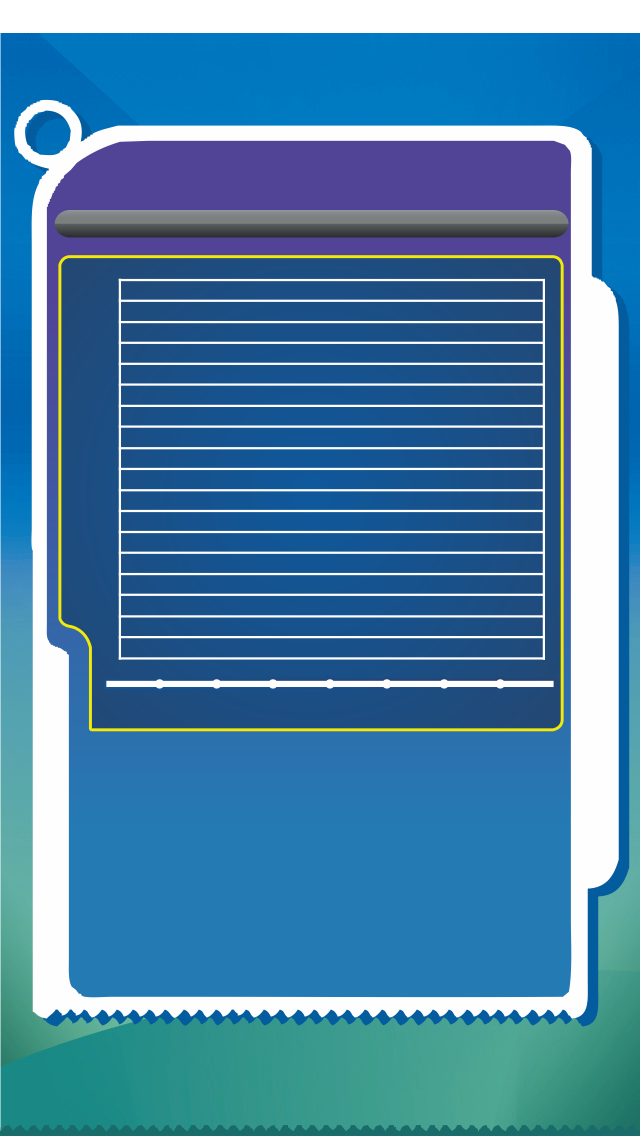
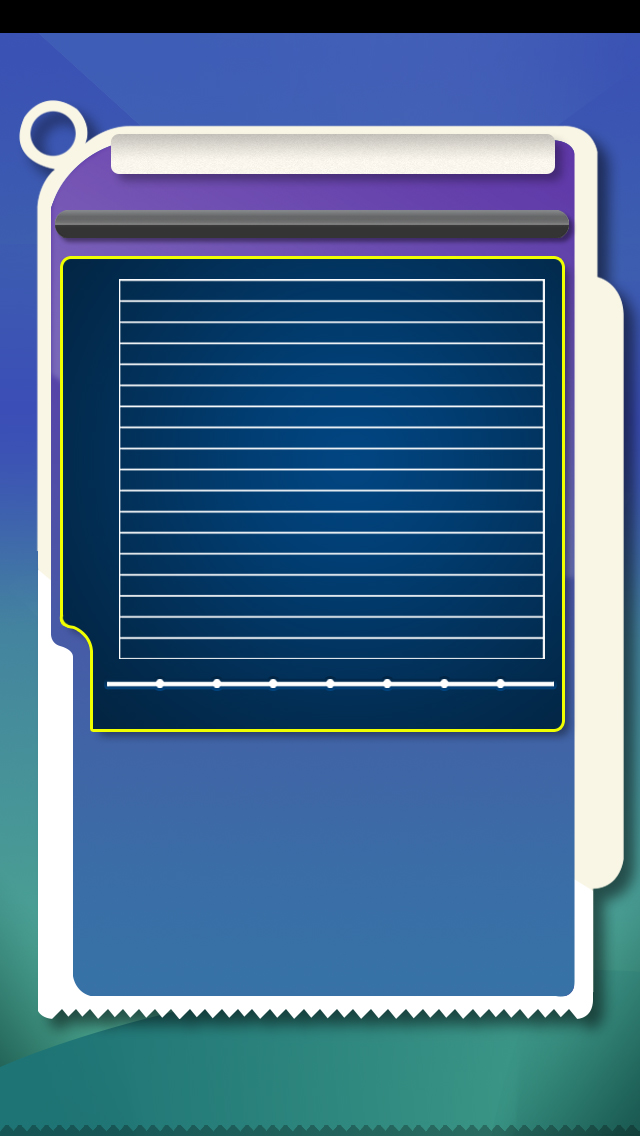
pedo background

diff --git a/Pedometer/ProjectPrivate/UI/PEDBarchartViewController.m b/Pedometer/ProjectPrivate/UI/PEDBarchartViewController.m
@@ -41,6 +41,30 @@
             }
         }
         if(barIdArray != nil && barIdArray.count > 0){
+            NSMutableArray *imageArray = [[NSMutableArray alloc]init];
+            int barWidth = 244;
+            int startX = 36;
+            int imgTotalWidth = 0;
+            for (int i=0; i<barIdArray.count; i++) {
+                UIImage *image = [PEDPedometerDataHelper getBarRemarkImageWithStatisticsType:[barIdArray objectAtIndex:i]];
+                [imageArray addObject:image];
+                imgTotalWidth += image.size.width;
+            }
+            for (int i=0; i<barIdArray.count; i++) {
+                UIImage *image = [imageArray objectAtIndex:i];
+                UIImageView *barColorView = [[UIImageView alloc] initWithImage:image];
+                barColorView.frame = CGRectMake(startX, 106, image.size.width, image.size.height);
+                if(barIdArray.count > 1)
+                {
+                    startX += image.size.width + (barWidth - imgTotalWidth) / (barIdArray.count - 1);
+                }
+
+                [tempControlPool addObject:barColorView];
+                //                [tempControlPool addObject:barRemarkLable];
+                [self.view addSubview:barColorView];
+                //                [self.view addSubview:barRemarkLable];
+            }
+            /*
             for (int i=0; i<barIdArray.count; i++) {
                 UIImageView *barColorView = [[UIImageView alloc]initWithFrame:CGRectMake(46 + i * 100, 62, 30, 5)];
                 //barColorView.backgroundColor = [PEDPedometerDataHelper getColorWithStatisticsType:[barIdArray objectAtIndex:i]];
@@ -57,6 +81,7 @@
                 [self.view addSubview:barColorView];
                 [self.view addSubview:barRemarkLable];
             }
+             */
         }
     }
     @catch (NSException *exception) {
@@ -170,8 +195,8 @@
 - (void)viewDidLoad
 {
     [super viewDidLoad];
-    [self initMonthSelectorWithX:56.f Height:66.f];
-    barIdArray = [[NSMutableArray alloc] initWithObjects:[PEDPedometerDataHelper integerToString:STATISTICS_DISTANCE], [PEDPedometerDataHelper integerToString:STATISTICS_AVG_SPEED],[PEDPedometerDataHelper integerToString:STATISTICS_AVG_PACE], nil];
+    [self initMonthSelectorWithX:56.f Height:66.f isForPedo:YES];
+    barIdArray = [[NSMutableArray alloc] initWithObjects:[PEDPedometerDataHelper integerToString:STATISTICS_STEP], [PEDPedometerDataHelper integerToString:STATISTICS_CALORIES],[PEDPedometerDataHelper integerToString:STATISTICS_DISTANCE], nil];
     [self initBarRemark];
     [self initData];
 	// Do any additional setup after loading the view, typically from a nib.
@@ -202,17 +227,20 @@
             BOOL isChange = NO;
             if([barIdArray containsObject:statisticsTypeStr]){
                 [barIdArray removeObject:statisticsTypeStr];
-                [btn setBackgroundImage:nil forState:UIControlStateNormal];
-                [btn setTitleColor:[UIColor whiteColor] forState:UIControlStateNormal];
+                [btn setBackgroundImage:[PEDPedometerDataHelper getBtnBGImageWithStatisticsType:statisticsTypeStr withStatus:false] forState:UIControlStateNormal];
+                //                [btn setTitleColor:[PEDPedometerDataHelper getColorWithStatisticsType: statisticsTypeStr] forState:UIControlStateNormal];
+                //                [btn setBackgroundImage:nil forState:UIControlStateNormal];
+                //                [btn setTitleColor:[UIColor whiteColor] forState:UIControlStateNormal];
                 isChange = YES;
             }else{
                 if(barIdArray.count < 3){
                     [barIdArray addObject:statisticsTypeStr];
                     [btn setBackgroundImage:[PEDPedometerDataHelper getBtnBGImageWithStatisticsType:statisticsTypeStr withStatus:true] forState:UIControlStateNormal];
-                    [btn setTitleColor:[PEDPedometerDataHelper getColorWithStatisticsType: statisticsTypeStr] forState:UIControlStateNormal];
+                    //                    [btn setTitleColor:[PEDPedometerDataHelper getColorWithStatisticsType: statisticsTypeStr] forState:UIControlStateNormal];
                     isChange = YES;
                 }
             }
+
             if(isChange){
                 [self initBarRemark];
                 [self genBarchart];
@@ -302,7 +330,7 @@
         barChart.paddingTop    = 0.0f;
         barChart.paddingBottom = 0.0f;
         
-        barChart.plotAreaFrame.paddingLeft   = 30.0f;
+        barChart.plotAreaFrame.paddingLeft   = 25.0f;
         barChart.plotAreaFrame.paddingTop    = 10.0f;
         barChart.plotAreaFrame.paddingRight  = 0.0f;
         barChart.plotAreaFrame.paddingBottom = 35.0f;
@@ -346,7 +374,7 @@
         
         NSArray *customMinjorTickLocations = [NSArray arrayWithObjects:[NSDecimalNumber numberWithFloat:1.0f],[NSDecimalNumber numberWithFloat:2.0f],[NSDecimalNumber numberWithFloat:3.0f],[NSDecimalNumber numberWithFloat:4.0f],[NSDecimalNumber numberWithFloat:5.0f],[NSDecimalNumber numberWithFloat:6.0f],[NSDecimalNumber numberWithFloat:7.0f], nil];
         x.minorTickLocations=[NSSet setWithArray:customMinjorTickLocations];
-        x.orthogonalCoordinateDecimal = CPTDecimalFromString(@"-0.05"); //直角坐标
+        x.orthogonalCoordinateDecimal = CPTDecimalFromString(@"-6"); //x轴偏移直角坐标
         /*
          x.title                       = @"X Axis";
          x.titleLocation               = CPTDecimalFromFloat(7.5f);
@@ -388,7 +416,7 @@
         y.minorTickLineStyle          = nil;
         y.majorIntervalLength         = CPTDecimalFromFloat(ymajorIntervalLength);
         y.majorGridLineStyle=lineStyle;
-        y.orthogonalCoordinateDecimal = CPTDecimalFromString(@"0");
+        y.orthogonalCoordinateDecimal = CPTDecimalFromString(@"0.3");
         CPTMutableTextStyle *textStyle = [CPTMutableTextStyle textStyle];
         textStyle.fontSize = 9.0f;
 //        textStyle.color = isLargeView ? [CPTColor blackColor] : [CPTColor whiteColor];

diff --git a/Pedometer/ProjectPrivate/Misc/PEDPedometerDataHelper.m b/Pedometer/ProjectPrivate/Misc/PEDPedometerDataHelper.m
@@ -209,9 +209,10 @@
     }
     return uiColor; 
 }
-
+/*图表上面选中类型比例标示*/
 +(UIImage*) getBarRemarkImageWithStatisticsType:(NSString*) statisticsTypeString{
     UIImage *barBRImage = nil;
+    BOOL useMetric = [AppConfig getInstance].settings.userInfo.measureFormat ==MEASURE_UNIT_METRIC;
     switch ([statisticsTypeString integerValue]) {
         case STATISTICS_STEP:
             barBRImage = [UIImage imageNamed:@"step_button.png"];
@@ -223,13 +224,13 @@
             barBRImage = [UIImage imageNamed:@"calories_button.png"];
             break;
         case STATISTICS_DISTANCE:
-            barBRImage = [UIImage imageNamed:@"distance_button.png"];
+            barBRImage = [UIImage imageNamed:useMetric?@"Barchart_hear_bar_distance_metric":@"Barchart_hear_bar_distance_enghlish.png"];
             break;
         case STATISTICS_AVG_SPEED:
-            barBRImage = [UIImage imageNamed:@"speed_button.png"];
+            barBRImage = [UIImage imageNamed:useMetric?@"Barchart_hear_bar_speed_metric.png":@"Barchart_hear_bar_speed_enghlish.png"];
             break;
         case STATISTICS_AVG_PACE:
-            barBRImage = [UIImage imageNamed:@"pace_button.png"];
+            barBRImage = [UIImage imageNamed:useMetric?@"Barchart_hear_bar_pace_metric.png": @"Barchart_hear_bar_pace_enghlish.png"];
             break;
         case STATISTICS_SLEEP_ACTUAL_SLEEP_TIME:
             barBRImage = [UIImage imageNamed:@"sleep_chart_remark_ast.png"];
@@ -245,21 +246,21 @@
     }
     return barBRImage;
 }
-
+/*图标按钮背景图片*/
 +(UIImage*) getBtnBGImageWithStatisticsType:(NSString*) statisticsTypeString withStatus:(BOOL) isEnable{
     UIImage *btnBGImage = nil;
     switch ([statisticsTypeString integerValue]) {
         case STATISTICS_STEP:
-            btnBGImage = [UIImage imageNamed:(isEnable ? @"step_button.png" : @"step_button.png")];
+            btnBGImage = [UIImage imageNamed:(isEnable ? @"Barchart_font_step_count_hightlight.png" : @"Barchart_font_step_count.png")];
             break;
         case STATISTICS_ACTIVITY_TIME:
-            btnBGImage = [UIImage imageNamed:(isEnable ? @"activity_time_button.png" : @"activity_time_button.png")];
+            btnBGImage = [UIImage imageNamed:(isEnable ? @"Barchart_font_acttime_hightlight" : @"Barchart_font_acttime.png")];
             break;
         case STATISTICS_CALORIES:
-            btnBGImage = [UIImage imageNamed:(isEnable ? @"calories_button.png" : @"calories_button.png")];
+            btnBGImage = [UIImage imageNamed:(isEnable ? @"Barchart_font_calories_burned_hightlight.png" : @"Barchart_font_calories_burned.png")];
             break;
         case STATISTICS_DISTANCE:
-            btnBGImage = [UIImage imageNamed:(isEnable ? @"distance_button.png" : @"distance_button.png")];
+            btnBGImage = [UIImage imageNamed:(isEnable ? @"Barchart_font_distance_hightlight.png" : @"Barchart_font_distance.png")];
             break;
         case STATISTICS_AVG_SPEED:
             btnBGImage = [UIImage imageNamed:(isEnable ? @"speed_button.png" : @"speed_button.png")];

diff --git a/Pedometer/ProjectPrivate/UI/PEDUIBaseViewController.m b/Pedometer/ProjectPrivate/UI/PEDUIBaseViewController.m
@@ -61,7 +61,7 @@
     // e.g. self.myOutlet = nil;
 }
 
--(void) initMonthSelectorWithX:(CGFloat)originX Height:(CGFloat)originY
+-(void) initMonthSelectorWithX:(CGFloat)originX Height:(CGFloat)originY isForPedo:(BOOL) isPedo
 {    
     CGFloat pickerHeight = 23.0f;
     CGFloat width=220.f;
@@ -71,11 +71,15 @@
     
 	monthSelectView = [[V8HorizontalPickerView alloc] initWithFrame:tmpFrame];
     monthSelectView.backgroundColor   = [UIColor clearColor];
-	//monthSelectView.selectedTextColor = [UIColor colorWithRed:251/255.0 green:103/255.0 blue:7/255.0 alpha:1];
-    monthSelectView.selectedTextColor = [UIColor whiteColor];
-	//monthSelectView.textColor   = [UIColor colorWithRed:251/255.0 green:103/255.0 blue:7/255.0 alpha:1];
-    monthSelectView.textColor   = [UIColor whiteColor];
-	monthSelectView.delegate    = self;
+    
+    if(isPedo){
+        monthSelectView.textColor   = [UIColor colorWithRed:251/255.0 green:103/255.0 blue:7/255.0 alpha:1];
+        monthSelectView.selectedTextColor = [UIColor colorWithRed:251/255.0 green:103/255.0 blue:7/255.0 alpha:1];
+    }else{
+        monthSelectView.textColor   = [UIColor whiteColor];
+        monthSelectView.selectedTextColor = [UIColor whiteColor];
+	}
+    monthSelectView.delegate    = self;
 	monthSelectView.dataSource  = self;
 	//monthSelectView.elementFont = [UIFont boldSystemFontOfSize:month_font_size];
     //monthSelectView.selectedElementFont=[UIFont boldSystemFontOfSize:month_font_size];

diff --git a/Pedometer/ProjectPrivate/UI/PEDPedoViewController.m b/Pedometer/ProjectPrivate/UI/PEDPedoViewController.m
@@ -39,6 +39,7 @@
 @synthesize lblPaceAmount;
 @synthesize lblPaceUnit;
 @synthesize viewPedoContainView;
+@synthesize backgroundImage;
 
 - (id)initWithNibName:(NSString *)nibNameOrNil bundle:(NSBundle *)nibBundleOrNil
 {
@@ -139,6 +140,12 @@
 
 - (void) initDataByDate:(NSDate *) date{
     @try {
+        PEDUserInfo *userInfo = [AppConfig getInstance].settings.userInfo;
+        if(userInfo.measureFormat == MEASURE_UNIT_METRIC){
+            [backgroundImage setImage:[UIImage imageNamed:@"Latest_update_bg_metric.png"]];
+        }else{
+            [backgroundImage setImage:[UIImage imageNamed:@"Latest_update_bg_enghlish.png"]];
+        }
         if(date==nil){
             if(referenceDate==nil)
                 referenceDate=[NSDate date];
@@ -146,7 +153,6 @@
         else
             referenceDate=date;
         PEDPedometerData *currPedometerData = [[BO_PEDPedometerData getInstance] getWithTarget:[AppConfig getInstance].settings.target.targetId withDate:referenceDate];
-        PEDUserInfo *userInfo = [AppConfig getInstance].settings.userInfo;
         if(!currPedometerData){
             currPedometerData=[[PEDPedometerData alloc] init];
             currPedometerData.optDate=referenceDate;

diff --git a/Pedometer/ProjectPrivate/UI/PEDBarchart4SleepViewController.m b/Pedometer/ProjectPrivate/UI/PEDBarchart4SleepViewController.m
@@ -194,7 +194,7 @@
 - (void)viewDidLoad
 {
     [super viewDidLoad];
-    [self initMonthSelectorWithX:60.f Height:64.f];
+    [self initMonthSelectorWithX:60.f Height:64.f isForPedo:NO];
     barIdArray = [[NSMutableArray alloc] initWithObjects:[PEDPedometerDataHelper integerToString:STATISTICS_SLEEP_ACTUAL_SLEEP_TIME], [PEDPedometerDataHelper integerToString:STATISTICS_SLEEP_TIMES_AWAKEN],[PEDPedometerDataHelper integerToString:STATISTICS_SLEEP_IN_BED_TIME], nil];
     [self initBarRemark];
     [self initData];

diff --git a/Pedometer/ProjectPrivate/UI/PEDGraphs4SleepViewController.m b/Pedometer/ProjectPrivate/UI/PEDGraphs4SleepViewController.m
@@ -197,7 +197,7 @@
 -(void)viewDidLoad
 {
     [super viewDidLoad];
-    [self initMonthSelectorWithX:60.f Height:64.f];
+    [self initMonthSelectorWithX:60.f Height:64.f isForPedo:NO];
     barIdArray = [[NSMutableArray alloc] initWithObjects:[PEDPedometerDataHelper integerToString:STATISTICS_SLEEP_ACTUAL_SLEEP_TIME], [PEDPedometerDataHelper integerToString:STATISTICS_SLEEP_TIMES_AWAKEN],[PEDPedometerDataHelper integerToString:STATISTICS_SLEEP_IN_BED_TIME], nil];
     [self initBarRemark];
     [self initData];

diff --git a/Pedometer/ProjectPrivate/UI/PEDGraphsViewController.m b/Pedometer/ProjectPrivate/UI/PEDGraphsViewController.m
@@ -162,7 +162,7 @@
 -(void)viewDidLoad
 {
     [super viewDidLoad];
-    [self initMonthSelectorWithX:56.f Height:66.f];
+    [self initMonthSelectorWithX:56.f Height:66.f isForPedo:YES];
     barIdArray = [[NSMutableArray alloc] initWithObjects:[PEDPedometerDataHelper integerToString:STATISTICS_DISTANCE], [PEDPedometerDataHelper integerToString:STATISTICS_AVG_SPEED],[PEDPedometerDataHelper integerToString:STATISTICS_AVG_PACE], nil];
     [self initBarRemark];
     [self initData];

diff --git a/Pedometer/ProjectPrivate/UI/PEDUIBaseViewController.h b/Pedometer/ProjectPrivate/UI/PEDUIBaseViewController.h
@@ -21,7 +21,7 @@
 @property (strong, nonatomic) IBOutlet V8HorizontalPickerView *monthSelectView;
 @property(assign,nonatomic)SwitchViewController *controlContainer;
 
--(void) initMonthSelectorWithX:(CGFloat)originX Height:(CGFloat)originY;
+-(void) initMonthSelectorWithX:(CGFloat)originX Height:(CGFloat)originY isForPedo:(BOOL) isPedo;
 - (IBAction)clickToConnectDevice:(id)sender;
 - (IBAction)clickToSettingView:(id)sender;
 -(void) reloadPickerToMidOfDate:(NSDate *)date;

diff --git a/Pedometer/ProjectPrivate/UI/PEDPedo4SleepViewController.m b/Pedometer/ProjectPrivate/UI/PEDPedo4SleepViewController.m
@@ -65,7 +65,7 @@
 {
     [super viewDidLoad];
     
-    [self initMonthSelectorWithX:60.f Height:64.f];
+    [self initMonthSelectorWithX:60.f Height:64.f isForPedo:NO];
     
     UISwipeGestureRecognizer *rightRecognizer = [[UISwipeGestureRecognizer alloc] initWithTarget:self action:@selector(showPedoDetailOfNextDate:)];   
     [rightRecognizer setDirection:(UISwipeGestureRecognizerDirectionRight)];   

diff --git a/Pedometer/ProjectPrivate/UI/PEDPedoDataViewController.m b/Pedometer/ProjectPrivate/UI/PEDPedoDataViewController.m
@@ -172,7 +172,7 @@
      [downRecognizer setDirection:(UISwipeGestureRecognizerDirectionDown)];
      [self.imgVDataMiddle addGestureRecognizer:downRecognizer];
      */
-    [self initMonthSelectorWithX:56.f Height:66.f];
+    [self initMonthSelectorWithX:56.f Height:66.f isForPedo:YES];
 	
     // Do any additional setup after loading the view, typically from a nib.
     

diff --git a/Pedometer/ProjectPrivate/UI/PEDPedoViewController.h b/Pedometer/ProjectPrivate/UI/PEDPedoViewController.h
@@ -31,6 +31,7 @@
 @property (weak, nonatomic) IBOutlet UILabel *lblPaceAmount;
 @property (weak, nonatomic) IBOutlet UILabel *lblPaceUnit;
 @property (strong, nonatomic) IBOutlet UIView *viewPedoContainView;
+@property (weak, nonatomic) IBOutlet UIImageView *backgroundImage;
 
 - (void) initData;
 - (void) initDataByDate:(NSDate *) date;

diff --git a/Pedometer/ProjectPrivate/UI/PEDPedoData4SleepViewController.m b/Pedometer/ProjectPrivate/UI/PEDPedoData4SleepViewController.m
@@ -242,7 +242,7 @@
     dayPickerView.delegate = self;
     //[dayPickerView reloadData];
     [self.view addSubview:dayPickerView];
-    [self initMonthSelectorWithX:55.f Height:298.f];
+    [self initMonthSelectorWithX:55.f Height:298.f isForPedo:NO];
 	
     // Do any additional setup after loading the view, typically from a nib.
 }
